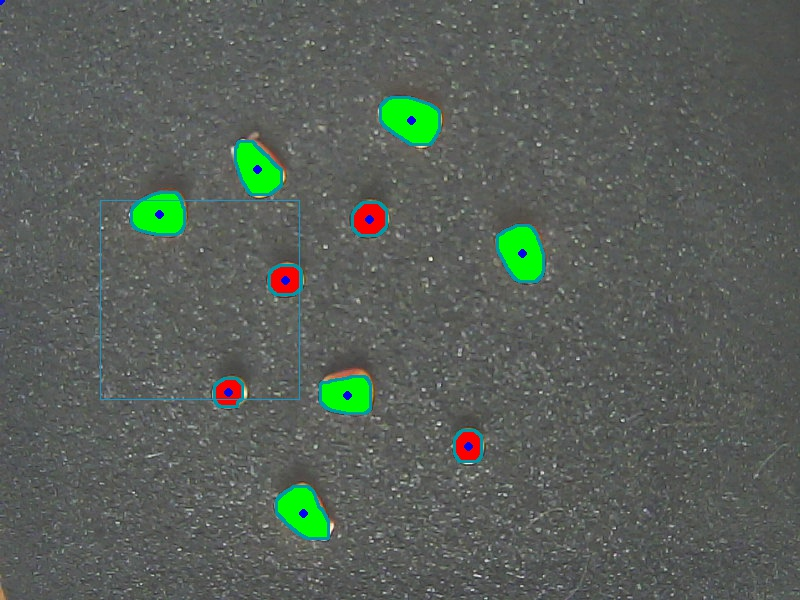
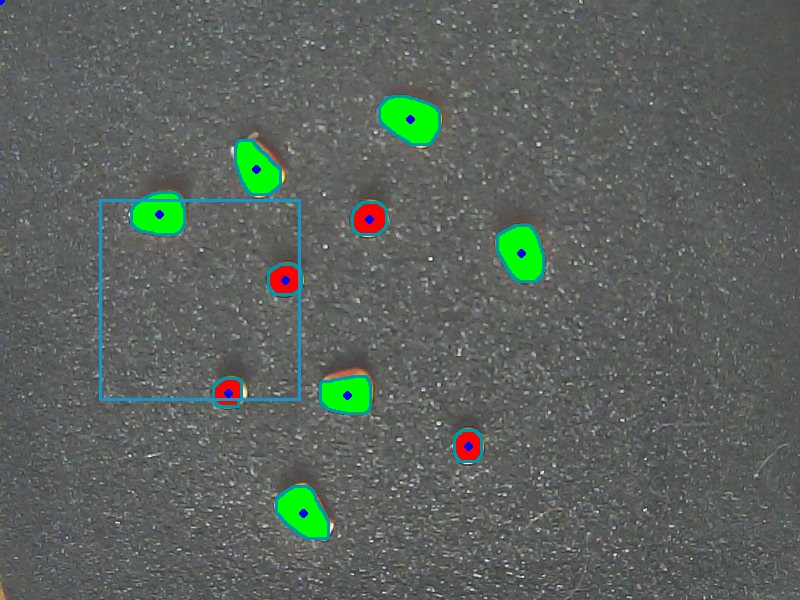
bigger rectangle

diff --git a/src/seed.cpp b/src/seed.cpp
@@ -91,7 +91,7 @@ Mat Seed::draw(vector<Point3f> seeds , Mat mask, Mat frame){
     
     
 	Rect target_area = Rect(100, 200, 200,200);
-	rectangle(frame,target_area,Scalar(200,150,25),1,8,0);		///Draw blue rectangle in target area   	
+	rectangle(frame,target_area,Scalar(200,150,25),2.3,8,0);		///Draw blue rectangle in target area   	
 	//putText(frame, "pute",Point2f(0,0), FONT_HERSHEY_PLAIN,2, Scalar(0,0,255),2,8,false);
     //namedWindow( "Debug Window", WINDOW_AUTOSIZE );
     //imshow( "Debug Window", frame);
